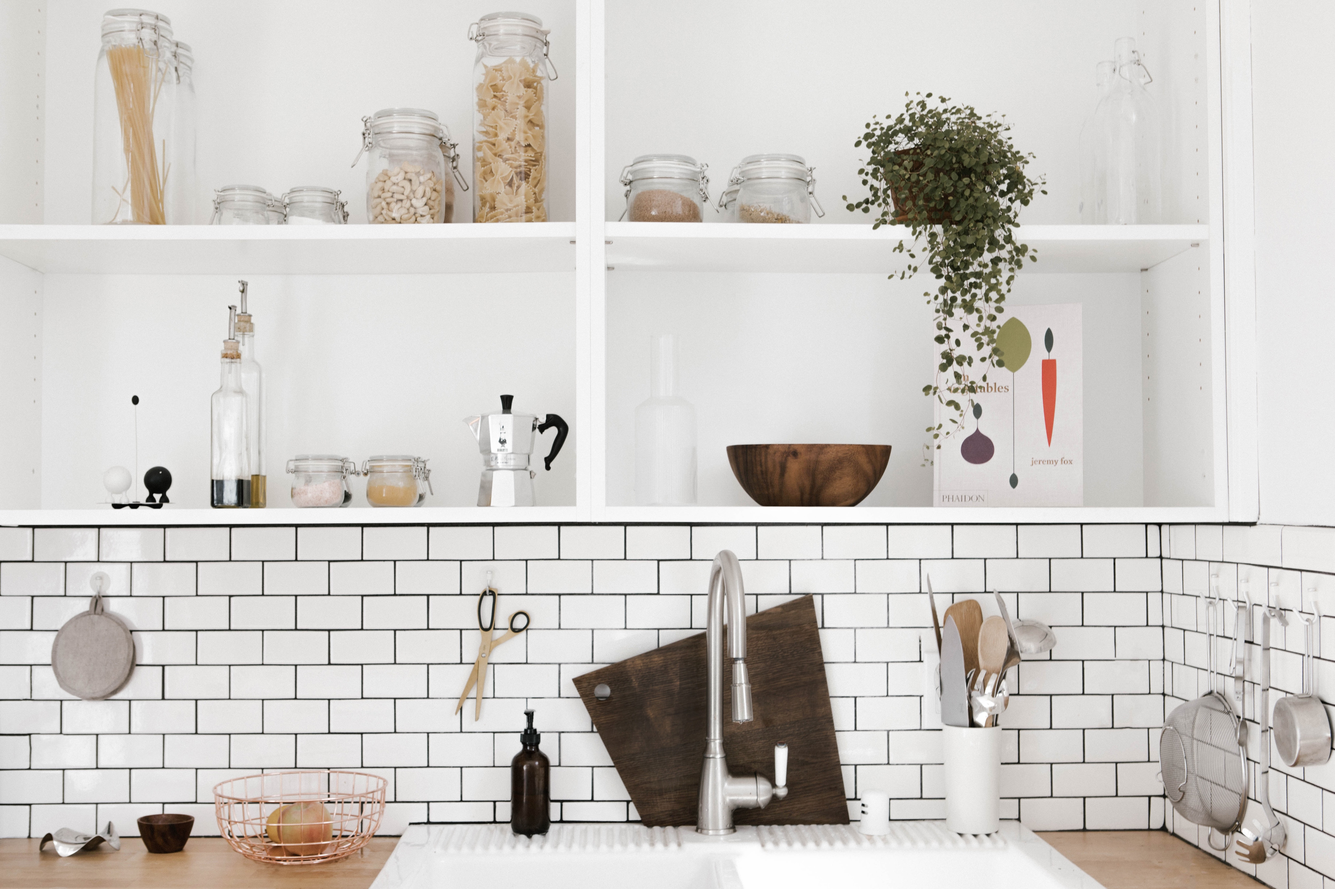
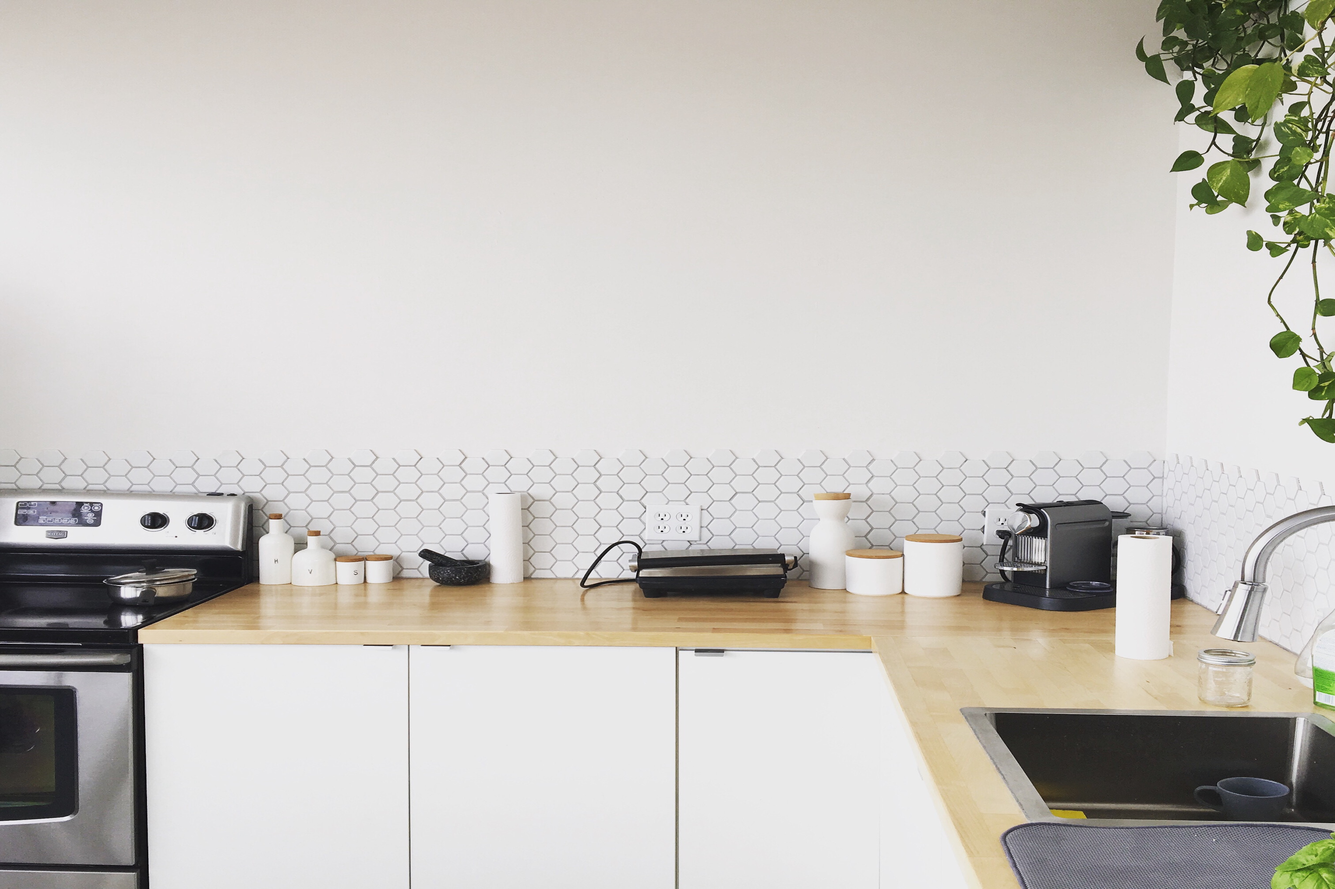
Update cover image, and fix navbar scrolling

diff --git a/app/assets/stylesheets/application.scss b/app/assets/stylesheets/application.scss
@@ -12,6 +12,7 @@
  *
  *= require_tree .
  *= require_self
+ *= require animate
  */
 @import "bootstrap-sprockets";
 @import "bootstrap";
@@ -28,17 +29,17 @@ html, body {
 }
 
 body {
+  color: #fff;
   padding-top: 70px;
   position: relative;
-  width: 100%;
   min-height: auto;
-  -webkit-background-size: cover;
-  -moz-background-size: cover;
   background-size: cover;
   -o-background-size: cover;
+  -moz-background-size: cover;
+  -webkit-background-size: cover;
   background-position: center;
+  background-repeat: no-repeat;
   background-image: url('header.jpg');
-  color: white;
   font-family: 'Open Sans', 'Helvetica Neue', Arial, sans-serif;
 }
 
@@ -50,6 +51,10 @@ hr {
 
 hr.light {
   border-color: white;
+}
+
+hr.dark {
+  border-color: #377BB5;
 }
 
 p {
@@ -87,18 +92,18 @@ section {
 }
 
 .bg-primary {
-  color: #ffffff;
+  color: #fff;
   background-color: #F05F40;
 }
 
 .bg-dark {
-  color: #ffffff;
-  background-color: #222222;
+  color: #fff;
+  background-color: #222;
 }
 
 .bg-light {
-  color: #222222;
-  background-color: #ffffff;
+  color: #222;
+  background-color: #fff;
 }
 
 #error_explanation h2 {
@@ -126,7 +131,7 @@ section {
 }
 
 .navbar-default .nav > li > a {
-  color: #222222;
+  color: #222;
   font-weight: 550;
   font-size: 14px;
   text-transform: uppercase;
@@ -144,7 +149,7 @@ section {
     padding-bottom: 7px;
   }
   .navbar-default .navbar-header .navbar-brand {
-    color: rgba(255, 255, 255, 0.7);
+    color: rgba(255, 255, 255, 1);
   }
   .navbar-default .navbar-header .navbar-brand:hover {
     color: white;
@@ -152,7 +157,7 @@ section {
   .navbar-default .nav > li > a,
   .navbar-default .nav > li > a:visited,
   .navbar-default .nav > li > a:focus  {
-    color: rgba(255, 255, 255, 0.7);
+    color: rgba(255, 255, 255, 1);
   }
   .navbar-default .nav > li > a:hover {
     color: white;
@@ -169,7 +174,7 @@ section {
   .navbar-default.scroll .nav > li > a,
   .navbar-default.scroll .nav > li > a:visited,
   .navbar-default.scroll .nav > li > a:focus {
-    color: #222222;
+    color: #222;
   }
   .navbar-default.scroll .nav > li > a:hover {
     color: #F05F40;

diff --git a/app/assets/javascripts/application.js b/app/assets/javascripts/application.js
@@ -12,11 +12,15 @@
 //
 //= require jquery
 //= require rails-ujs
-//= require turbolinks
 //= require bootstrap
+//= require jquery.easing
+//= require turbolinks
 //= require_tree .
 
-$(document).ready(function() {
+
+$(document).on('turbolinks:load', function() {
+
+  $('.header-content-inner h1').addClass('animated pulse');
 
   $(window).scroll(function() {
     if ($(document).scrollTop() > 50) {
@@ -26,23 +30,17 @@ $(document).ready(function() {
     }
   });
 
-  function scrollToDiv(element, navheight) {
-    var offset = element.offset();
-    var offsetTop = offset.top;
-    var totalScroll = offsetTop - navheight;
-
-    $('body, html').animate({
-      scrollTop: totalScroll
-    }, 500);
-  }
-
-  $('nav ul li a').click(function() {
-    var element = $(this).attr('href');
-    var elementWrapped = $(element);
-    
-    scrollToDiv(elementWrapped, 40);
-    
-    return false;
+  $('a.js-scroll-trigger[href*="#"]:not([href="#"])').click(function() {
+    if (location.pathname.replace(/^\//, '') == this.pathname.replace(/^\//, '') && location.hostname == this.hostname) {
+      var target = $(this.hash);
+      target = target.length ? target : $('[name=' + this.hash.slice(1) + ']');
+      if (target.length) {
+        $('html, body').animate({
+          scrollTop: (target.offset().top - 54)
+        }, 1500, "easeInOutExpo");
+        return false;
+      }
+    }
   });
 
 });

diff --git a/app/assets/stylesheets/welcome.scss b/app/assets/stylesheets/welcome.scss
@@ -13,6 +13,9 @@ header .header-content .header-content-inner h1 {
   margin-bottom: 0;
   font-size: 50px;
   letter-spacing: 5px;
+  -webkit-animation-delay: 1s;
+  -webkit-animation-duration: 3s;
+  -webkit-animation-iteration-count: infinite;
 }
 
 header .header-content .header-content-inner hr {
